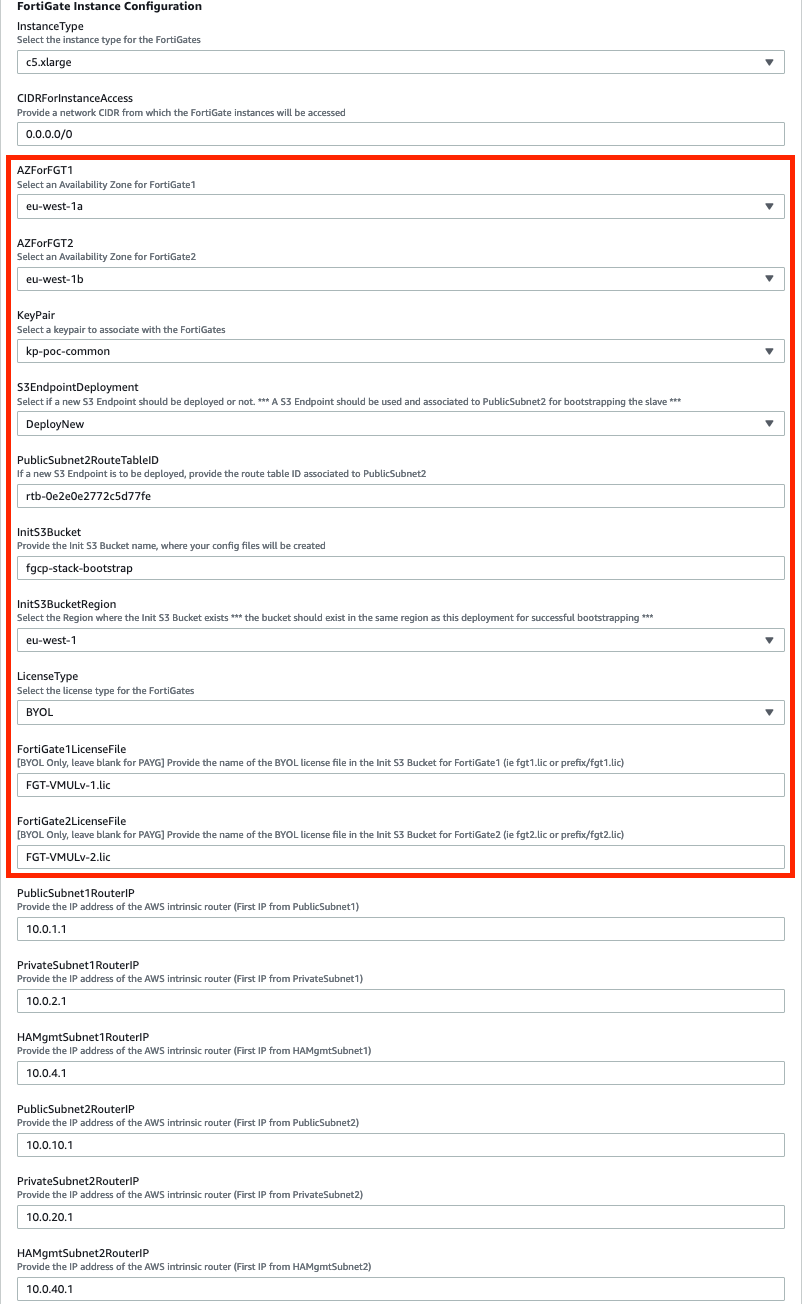
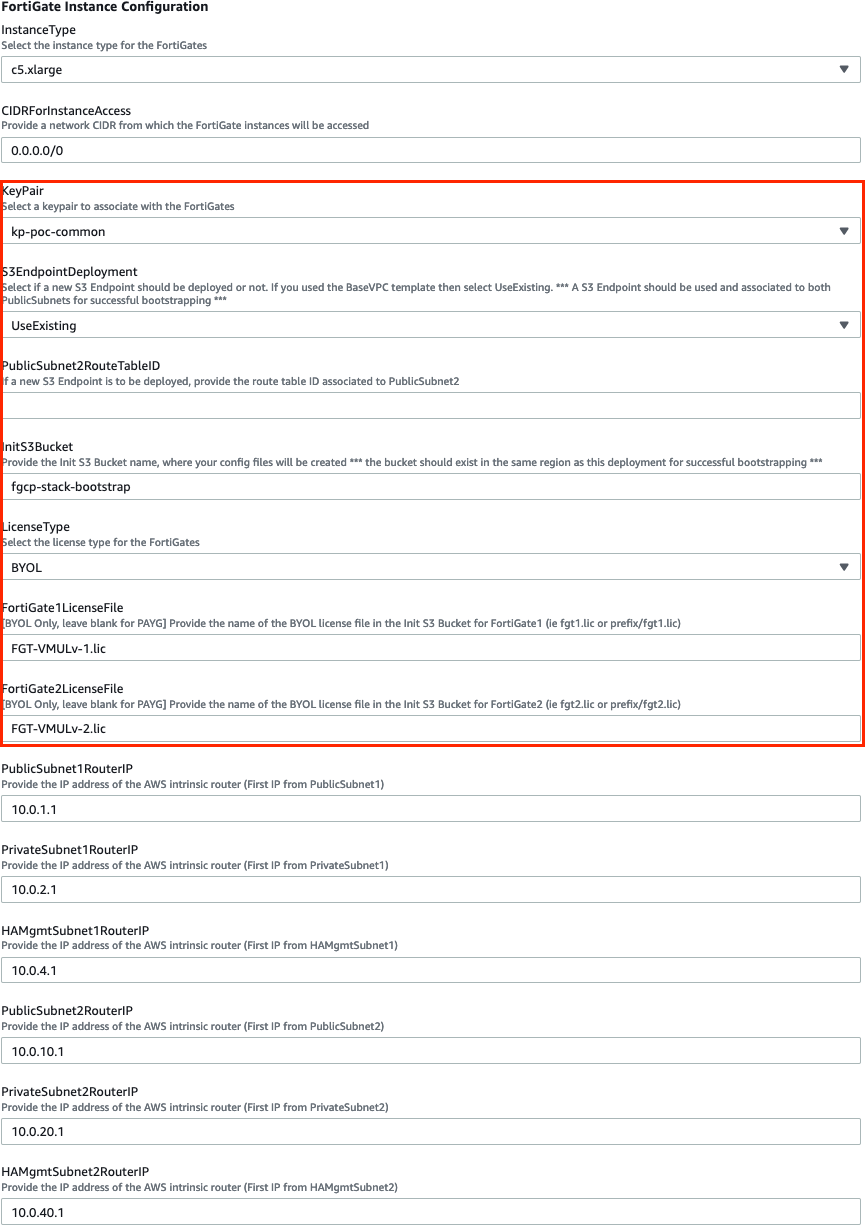
add changes for mantis 623376

Changed region(s): [[0.0, 0.0, 1.0, 1.0]]

diff --git a/HA/6.2/DualAZ/README.md b/HA/6.2/DualAZ/README.md
@@ -35,7 +35,7 @@ A FortiGate FGCP cluster appears as a single logical FortiGate instance and conf
 
 The FortiGate instances will use multiple interfaces for data plane and control plane traffic to achieve FGCP clustering in an AWS VPC.  The FortiGate instances require four ENIs for this solution to work as designed so make sure to use an AWS EC2 instance type that supports this.   Reference AWS Documentation for further information on this.
 
-For data plane functions the FortiGates will use two dedicated ENIs, one for a public interface (ie ENI0\port1) and another for a private interface (ie ENI1\port2).  These ENIs will utilize primary IP addressing and FortiOS will not sync the interface configuration (config system interface) or static routes (config router static) as these FGTs are in seperate subnets.  Thus when configuring these items, you should do so individually on both FortiGates.
+For data plane functions the FortiGates will use two dedicated ENIs, one for a public interface (ie ENI0\port1) and another for a private interface (ie ENI1\port2).  These ENIs will utilize primary IP addressing and FortiOS should not sync the interface configuration (config system interface) or static routes (config router static) as these FGTs are in seperate subnets.  This is controlled via the CLI (config system vdom-exception). Thus when configuring these items, you should do so individually on both FortiGates.
 
 A cluster EIP will be associated to the primary IP of the public interface (ie ENI0\port1) of the current master FortiGate instance and will be reassociated to a new master FortiGate instance as well.
 
@@ -46,6 +46,14 @@ The FortiGates will also use another dedicated ENI (ie ENI3\port4) for HA manage
 The FortiGates are configured to use the unicast version of FGCP by applying the configuration below on both the master and slave FortiGate instances.  This configuration is automatically configured and bootstrapped to the instances when deployed by the provided CloudFormation Templates.
 
 #### Example Master FGCP Configuration:
+    config system vdom-exception
+    edit 1
+    set object sytem.interface
+    next
+    edit 2
+    set object router.static
+    next
+    end
     config system ha
     set group-name "group1"
     set mode a-p
@@ -65,6 +73,14 @@ The FortiGates are configured to use the unicast version of FGCP by applying the
     end
 
 #### Example Slave FGCP Configuration:
+    config system vdom-exception
+    edit 1
+    set object sytem.interface
+    next
+    edit 2
+    set object router.static
+    next
+    end
     config system ha
     set group-name "group1"
     set mode a-p
@@ -127,7 +143,7 @@ In this section the parameters will request general information for existing VPC
 ![Example Diagram](./content/params2.png)
 
 ### FortiGate Instance Configuration
-For this section the variables will request general instance information such as instance type, key pair, and Availability Zone to deploy the instances into.  Also FortiOS specific information will be requested such as if an S3 endpoint should be deployed, init S3 bucket, bucket region, and FortiGate License filenames.  **Ensure that an S3 gateway endpoint is deployed and assigned to the PublicSubnet's AWS route table or bootstrapping will fail.** Additional items such as the and IP addresses for AWS resources within the VPC such as the IP of the AWS intrinsic router for the public, private, and HAmgmt subnets.  The AWS intrinsic router is always the first host IP for each subnet.  Reference [AWS Documentation](https://docs.aws.amazon.com/vpc/latest/userguide/VPC_Subnets.html#VPC_Sizing) for further information on host IPs used by AWS services within a subnet.
+For this section the variables will request general instance information such as instance type and key pair to use for deploying the instances.  Also FortiOS specific information will be requested such as if an S3 endpoint should be deployed, init S3 bucket, bucket region, and FortiGate License filenames.  **Ensure that an S3 gateway endpoint is deployed and assigned to the PublicSubnet's AWS route table or bootstrapping will fail.** Additional items such as the and IP addresses for AWS resources within the VPC such as the IP of the AWS intrinsic router for the public, private, and HAmgmt subnets.  The AWS intrinsic router is always the first host IP for each subnet.  Reference [AWS Documentation](https://docs.aws.amazon.com/vpc/latest/userguide/VPC_Subnets.html#VPC_Sizing) for further information on host IPs used by AWS services within a subnet.
 
 ![Example Diagram](./content/params3.png)
 
@@ -146,7 +162,7 @@ Before attempting to create a stack with the templates, a few prerequisites shou
 3.	If BYOL licensing is to be used, ensure these licenses have been registered on the support site.  Reference the VM license registration process PDF in this [KB Article](http://kb.fortinet.com/kb/microsites/search.do?cmd=displayKC&docType=kc&externalId=FD32312).
 4.   **Create a new S3 bucket in the same region where the template will be deployed.  If the bucket is in a different region than the template deployment, bootstrapping will fail and the FGTs will be unaccessable**.
 5.  If BYOL licensing is to be used, upload these licenses to the root directory of the same S3 bucket from the step above.
-6.  **Ensure that an S3 gateway endpoint is deployed and assigned to both of the PublicSubnet's AWS route table.**  Reference [AWS Documentation](https://docs.aws.amazon.com/vpc/latest/userguide/vpce-gateway.html#create-gateway-endpoint) for further information.
+6.  **Ensure that an S3 gateway endpoint is deployed and assigned to both of the PublicSubnet's AWS route table.**  If you are using the 'BaseVPC_FGCP_DualAZ.template.json' template, then this is already deployed for you.  Reference [AWS Documentation](https://docs.aws.amazon.com/vpc/latest/userguide/vpce-gateway.html#create-gateway-endpoint) for further information.
 7.  **Ensure that all of the PublicSubnet's and HAmgmtSubnet's AWS route tables have a default route to an AWS Internet Gateway.**  Reference [AWS Documentation](https://docs.aws.amazon.com/vpc/latest/userguide/VPC_Route_Tables.html#route-tables-internet-gateway) for further information.
 
 Once the prerequisites have been satisfied, login to your account in the AWS console and proceed with the deployment steps below.
@@ -168,7 +184,7 @@ Once the prerequisites have been satisfied, login to your account in the AWS con
 
 ![Example Diagram](./content/deploy4.png)
 
-5.  In the FortiGate Instance Configuration parameters section, we have selected an Availability Zone and Key Pair to use for the FortiGates as well as BYOL licensing.  Notice we are prompted for if an S3 endpoint should be deployed, the public subnet's route table ID for the new S3 endpoint, the InitS3Bucket, InitS3BucketRegion, License Types, FortiGate1LicenseFile, and FortiGate2LicenseFile parameters.  For the values we are going to reference the S3 bucket and relevant information from the deployment prerequisite step 4.
+5.  In the FortiGate Instance Configuration parameters section, we have selected an Instance Type and Key Pair to use for the FortiGates as well as BYOL licensing.  Notice we are prompted for if an S3 endpoint should be deployed, the InitS3Bucket, License Types, FortiGate1LicenseFile, and FortiGate2LicenseFile parameters.  For the values we are going to reference the S3 bucket and relevant information from the deployment prerequisite step 4.
 
 ![Example Diagram](./content/deploy5.png)
 
@@ -245,7 +261,7 @@ Once the prerequisites have been satisfied, login to your account in the AWS con
 ## FAQ \ Troubleshoot
   - **Does FGCP support having multiple Cluster EIPs and secondary IPs on ENI0\port1?**
 
-Yes.  FGCP will move over any secondary IPs associated to ENI0\port1 and EIPs associated to those secondary IPs to the new master FortiGate instance.  In order to configure additional secondary IPs on the ENI and in FortiOS for port1, reference this [use-case guide](https://www.fortinet.com/content/dam/fortinet/assets/solutions/aws/Fortinet_Multiple_Public_IPs_for_an_AWS_interface.pdf) on the Fortinet AWS micro site.
+Yes.  FGCP will move over any secondary IPs associated to ENI0\port1 and EIPs associated to those secondary IPs to the new master FortiGate instance.  In order to configure additional secondary IPs on the ENI and in FortiOS for port1, you will need to use static IP addressing on the interface.  Reference the FortiOS Handbook on the [Fortinet Documentation site](https://docs.fortinet.com/).
 
   - **Does FGCP support having multiple routes for ENI1\port2?**
 
@@ -279,6 +295,14 @@ This can be disabled with the following CLI commands:
 ```
 diag deb app awsd 0
 diag deb disable
+```
+
+  - **Is it possible to validate that both FortiGate instances are able to assume the IAM instance role and successfully and access AWS EC2 API endpoints without a failover event?.**
+
+Yes.  You can run the following command on either FortiGate to confirm availability.  Remember that all DNS queries and HTTPS calls to AWS EC2 API endpoints will be sent out of the HAmgmt interfaces.  To get more verbose output, you can use the diag debu commands shown above.
+
+```
+diag test app awsd 4
 ```
 
   - **Is it possible to remove direct internet access from the HAmgmt subnet and provide private AWS EC2 API access via a VPC interface endpoint?**
